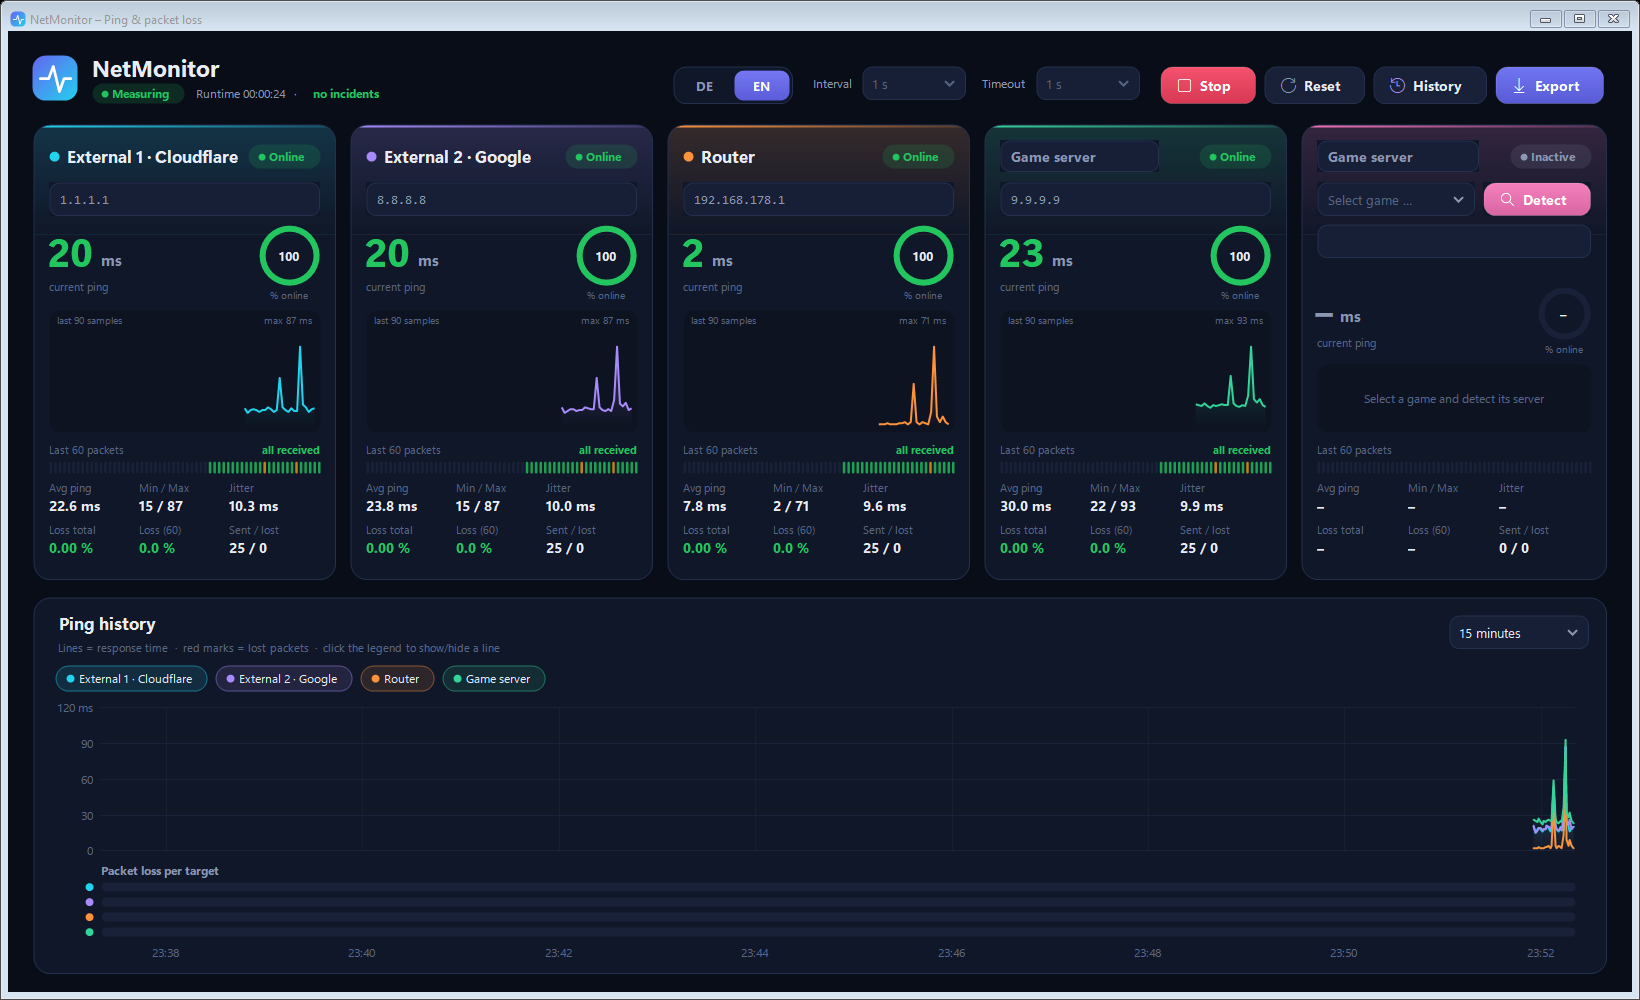
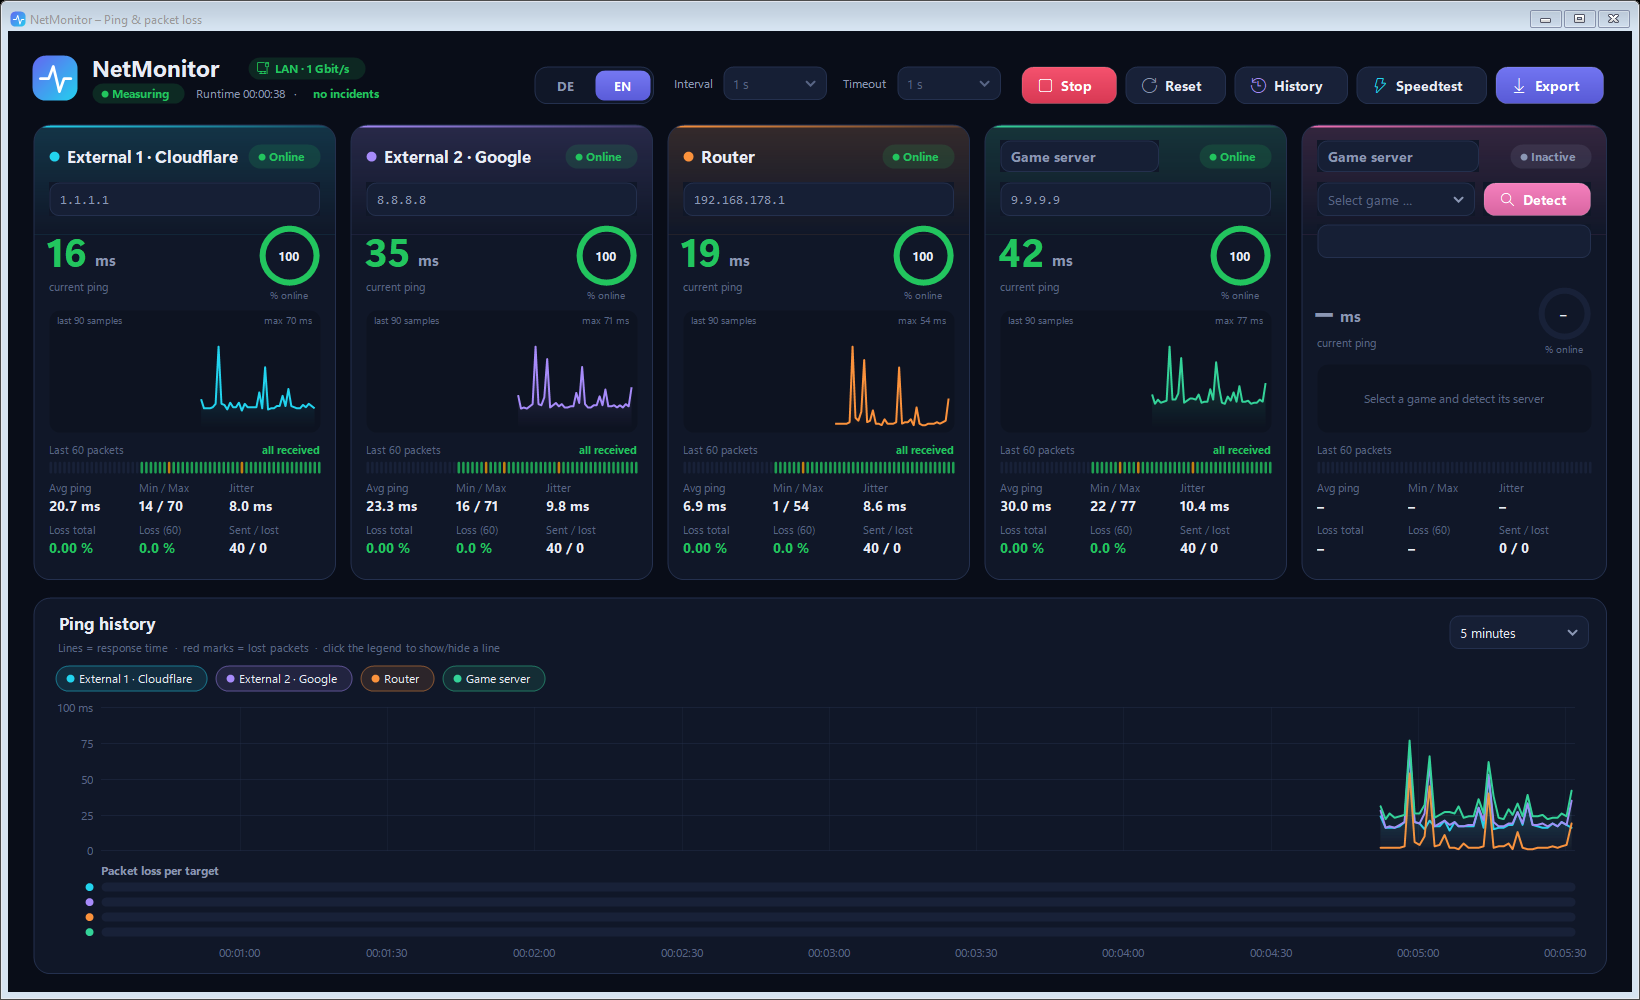
v1.3.0: Speed test, plan comparison, official tests and LAN/Wi-Fi check
- Speed test window: Cloudflare (built in), Speedtest.net via Ookla CLI
  (auto-download with SHA-256 check, server selection) and official
  regulator tests for DE/AT/CH/LU
- Contracted plan comparison; implausible results are flagged and
  Speedtest.net retries them on another server
- LAN/Wi-Fi detection with signal strength and LAN link check
- Speed tests are marked in the ping chart and excluded from the loss analysis
- Windows power throttling disabled; "&" in names displayed correctly
- README rewritten, new dashboard and speed test screenshots

diff --git a/src/SpeedTest.cs b/src/SpeedTest.cs
@@ -1056,8 +1056,8 @@ namespace NetMonitor
             Theme.StyleGrid(grid);
             grid.MultiSelect = true;
             var cols = L.En
-                ? new[] { "Date", "Provider", "Download", "Upload", "Ping", "Loaded", "% of plan", "Link" }
-                : new[] { "Datum", "Anbieter", "Download", "Upload", "Ping", "Unter Last", "% Tarif", "Verbindung" };
+                ? new[] { "Date", "Provider", "Download\nMbit/s", "Upload\nMbit/s", "Ping", "Loaded", "% of plan", "Connection" }
+                : new[] { "Datum", "Anbieter", "Download\nMbit/s", "Upload\nMbit/s", "Ping", "Unter Last", "% Tarif", "Verbindung" };
             foreach (var c in cols) grid.Columns.Add(c, c);
             grid.Columns[0].FillWeight = 120;
             grid.Columns[1].FillWeight = 110;
@@ -1625,7 +1625,7 @@ namespace NetMonitor
             {
                 var r = results[i];
                 double pct = tariffDown > 0 && !double.IsNaN(r.Down) ? 100 * r.Down / tariffDown : double.NaN;
-                int row = grid.Rows.Add(r.Time.ToString(L.DateTimeShort), r.Provider, SpeedHistory.Fmt(r.Down) + " Mbit/s", SpeedHistory.Fmt(r.Up) + " Mbit/s",
+                int row = grid.Rows.Add(r.Time.ToString(L.DateTimeShort), r.Provider, SpeedHistory.Fmt(r.Down), SpeedHistory.Fmt(r.Up),
                     SpeedHistory.FmtMs(r.Ping), SpeedHistory.FmtMs(r.LoadedPing), double.IsNaN(pct) ? "–" : pct.ToString("0") + " %", r.ConnText);
                 grid.Rows[row].Cells[7].Style.ForeColor = r.Conn == "LAN" ? Theme.Good : r.Conn == "" || r.Conn == "?" ? Theme.Faint : Theme.Warn;
                 grid.Rows[row].Tag = r;

diff --git a/README.md b/README.md
@@ -1,43 +1,72 @@
 # NetMonitor
 
-**Continuous ping & packet-loss monitor for Windows** – watch your internet connection, your router and your game server side by side, and find out *where* packet loss really happens.
+**Continuous ping, packet-loss and speed monitor for Windows** – watch your internet connection, your router and your game server side by side, find out *where* packet loss really happens and check whether you get the speed you pay for.
 
 ![Dashboard](docs/screenshots/dashboard.png)
 
-> 🇩🇪 Deutsche Kurzfassung weiter unten – die App selbst ist komplett auf Deutsch und Englisch umschaltbar.
+> 🇩🇪 Deutsche Kurzfassung [weiter unten](#-deutsch--kurzfassung) – die App selbst ist komplett auf Deutsch und Englisch umschaltbar.
+
+## Highlights
+
+- 📡 **Five targets in parallel** – Cloudflare, Google, your router, a custom target and your game server
+- 🔍 **Packet-loss analysis** – incidents on a daily timeline with their **likely cause** (home network, ISP, single service, game server)
+- 🎮 **Game server detection** – select the running game, NetMonitor finds the server it is talking to
+- ⚡ **Speed test** – Cloudflare, Speedtest.net or the official regulator test, compared with your **contracted plan**
+- 🔌 **LAN or Wi-Fi?** – connection type, Wi-Fi signal and LAN link speed at a glance
+- 🗂 **History** of every scan, CSV export, English / German, dark UI – no administrator rights needed
 
 ## Features
 
-- **Five targets at once** – two independent public resolvers (Cloudflare `1.1.1.1`, Google `8.8.8.8`), your **router** (gateway is detected automatically), a freely named **custom target** and a **game server**.
-- **Live dashboard** – current ping, availability ring, sparkline of the last 90 samples, the last 60 packets as a colour strip, avg / min / max / jitter / loss.
-- **Ping history chart** with hover tooltip, toggleable lines and a per-target **packet-loss lane**.
-- **Game server detection** – pick a running game, click *Detect* during a match: NetMonitor watches the game's network traffic for 12 s (Windows ETW, administrator rights once via UAC) and suggests the most likely game server. If the server blocks ping, the last reachable router in front of it is measured instead. Read-only, no injection – safe with anti-cheat.
-- **History** – every scan (start → stop) is saved automatically and can be reviewed, exported or deleted.
-- **Packet-loss analysis** – incidents are grouped, shown on a daily timeline and classified by their **likely cause**:
+### Monitoring
 
-  | Lost packets at … | Likely cause |
-  |---|---|
-  | router (and usually everything else) | 🟠 Home network – Wi-Fi / LAN / router |
-  | both external targets, router fine | 🔴 Internet / ISP |
-  | only one external target | 🟡 Single service |
-  | only the custom / game server | 🩷 Target server only |
+- **Targets:** two independent public resolvers (Cloudflare `1.1.1.1`, Google `8.8.8.8`), your **router** (the gateway is detected automatically), a freely named **custom target** and a **game server**.
+- **Live dashboard:** current ping, availability ring, sparkline of the last 90 samples, the last 60 packets as a colour strip, avg / min / max / jitter / loss per target.
+- **Ping chart** with hover tooltip, toggleable lines and a **packet-loss lane** per target. Speed test periods are hatched in the chart.
+- **Connection badge** in the header: *LAN · 1 Gbit/s* or *Wi-Fi · 87 %* (signal strength).
 
-  Incidents less than 10 minutes apart can be grouped into a *series*.
-- **Speed test (manual)** – choose the provider:
-  - **Cloudflare** (built in) – 6 parallel connections, download/upload, idle and *loaded* latency (bufferbloat), jitter
-  - **Speedtest.net** – via the official [Ookla Speedtest CLI](https://www.speedtest.net/apps/cli), with server selection. The installer (or one click in the app) downloads it from Ookla, verifies its SHA-256 checksum and stores it in `%APPDATA%\NetMonitor\tools\ookla` – by downloading you accept Ookla's terms.
-  - **Official test** – the regulator's own measurement where one exists: Germany (Bundesnetzagentur – Breitbandmessung, legally binding), Austria (RTR-Netztest), Switzerland (networktest.ch), Luxembourg (checkmynet.lu). Preselected from your Windows region; results can be entered for comparison. For other countries Cloudflare or Speedtest.net are fully sufficient.
+### Game server detection
 
-  NetMonitor shows whether you are connected via **LAN or Wi-Fi** (with signal strength) in the header and in the speed test window, warns that official measurements should be taken via LAN cable, and checks whether the LAN link speed (e.g. 100 Mbit/s port) limits your plan. Each result stores the connection type.
+Select a running game and click **Detect** during a match. NetMonitor watches the game's network traffic for 12 s (Windows ETW, administrator rights once via UAC) and suggests the most likely game server – steady UDP traffic in both directions. If the server blocks ping, the last reachable router in front of it is measured instead. Read-only, no injection – safe with anti-cheat software.
 
-  Implausible results (latency did not rise under load and the speed is far below your plan / previous results) are flagged ⚠ and excluded from the plan evaluation; Speedtest.net automatically repeats such a test against another nearby server.
+### History & packet-loss analysis
 
-  Enter your **contracted plan** to see how much of it you actually get (gauges, history chart with plan lines, % of plan). Packet loss during a speed test is marked in the ping chart and not counted as an incident.
-- **CSV export** (+ PNG of the chart) for sessions, incident lists and speed tests.
-- **English / German** – switch live in the header, including number and date formats.
-- **Dark UI**, hand-drawn controls, high-DPI aware.
+Every scan (start → stop) is saved automatically as a session and can be reviewed with details and chart, exported or deleted.
+
+The **Packet loss** tab groups lost packets into incidents, shows them on a **daily timeline** and estimates the **likely cause**:
+
+| Lost packets at … | Likely cause |
+|---|---|
+| router (and usually everything else) | 🟠 Home network – Wi-Fi / LAN / router |
+| both external targets, router fine | 🔴 Internet / ISP |
+| only one external target | 🟡 Single service |
+| only the custom / game server | 🩷 Target server only |
+
+Incidents less than 10 minutes apart can be grouped into a *series*. Packet loss during a speed test is not counted as an incident.
 
 ![Packet loss analysis](docs/screenshots/packet-loss.png)
+
+### Speed test
+
+Manual speed test with three providers:
+
+| Provider | How it works |
+|---|---|
+| **Cloudflare** | built in – 6 parallel connections, download / upload, ping, jitter and **latency under load** (bufferbloat) |
+| **Speedtest.net** | via the official [Ookla Speedtest CLI](https://www.speedtest.net/apps/cli), with server selection. The installer – or one click in the app – downloads it directly from Ookla, verifies its SHA-256 checksum and stores it in `%APPDATA%\NetMonitor\tools\ookla`. |
+| **Official test** | the regulator's own measurement where one exists: 🇩🇪 Germany (Bundesnetzagentur – *Breitbandmessung*, legally binding), 🇦🇹 Austria (RTR-Netztest), 🇨🇭 Switzerland (networktest.ch), 🇱🇺 Luxembourg (checkmynet.lu). NetMonitor opens it; the result can be entered for comparison. For other countries Cloudflare or Speedtest.net are fully sufficient. |
+
+- **Contracted plan:** enter the speeds from your contract – gauges show a plan marker and *% of plan*, the history chart shows plan lines, and NetMonitor points out when results are repeatedly below 90 %.
+- **Plausibility check:** if latency did not rise under load and the result is far below your plan or previous results, the connection was obviously not saturated. Such results are flagged ⚠ and excluded from the plan evaluation; Speedtest.net automatically repeats them against another nearby server.
+- **Connection check:** a banner shows whether you are on LAN or Wi-Fi (with network name and signal), recommends a LAN cable for meaningful and official measurements, and warns if your LAN port is slower than your plan (e.g. a 100 Mbit/s link). Every result stores the connection type.
+
+![Speed test](docs/screenshots/speedtest.png)
+
+### More
+
+- **CSV export** (plus a PNG of the chart) for live data, sessions, incident lists and speed tests
+- **English / German** – switch live in the header, including number and date formats
+- Dark, hand-drawn UI, high-DPI aware
+
 ![Session history](docs/screenshots/sessions.png)
 
 ## Installation
@@ -45,18 +74,26 @@
 1. Download `NetMonitor-<version>.zip` from the [Releases](../../releases) page.
 2. *Recommended:* right-click the ZIP → **Properties** → tick **Unblock** → OK.
 3. Extract it and double-click **`Setup.cmd`**.
-4. Choose language, folder and shortcuts → **Install**.
+4. Choose language, folder and options → **Install**.
 
-The installer works **per user without administrator rights**: files go to `%LOCALAPPDATA%\Programs\NetMonitor`, shortcuts to the Start menu / desktop, and NetMonitor appears in **Settings → Apps → Installed apps**, where it can be uninstalled again. Running `Setup.cmd` from a newer release updates an existing installation; history and settings are kept.
+The installer works **per user without administrator rights**:
 
-> **Why is there no `.exe`?** NetMonitor ships as source code that the built-in Windows PowerShell compiles at start-up (takes ~2 s). This way it also runs on PCs with **Smart App Control**, which blocks unsigned executables. Windows may still show *“Windows protected your PC”* for `Setup.cmd` from the internet – click **More info → Run anyway**, or unblock the ZIP first (step 2).
+- files go to `%LOCALAPPDATA%\Programs\NetMonitor`
+- optional Start menu entry and desktop shortcut
+- optional download of the **Ookla Speedtest CLI** for Speedtest.net (by downloading you accept [Ookla's terms](https://www.speedtest.net/about/terms))
+- NetMonitor appears in **Settings → Apps → Installed apps** and can be uninstalled there (optionally including history and settings)
 
-**Portable mode:** instead of installing, simply double-click `NetMonitor.cmd` in the extracted folder.
+**Updating:** run `Setup.cmd` from a newer release – the existing installation is detected and updated; history and settings are kept.
+
+**Portable mode:** instead of installing, double-click `NetMonitor.cmd` in the extracted folder.
+
+> **Why is there no `.exe`?** NetMonitor ships as source code that the built-in Windows PowerShell compiles at start-up (takes about 2 s). This way it also runs on PCs with **Smart App Control**, which blocks unsigned executables. Windows may still show *“Windows protected your PC”* for `Setup.cmd` from the internet – click **More info → Run anyway**, or unblock the ZIP first (step 2).
 
 ### Requirements
 
 - Windows 10 or 11 (64-bit)
 - Windows PowerShell 5.1 and .NET Framework 4.x – both are part of Windows
+- Administrator rights only for the optional game server detection (one UAC prompt per detection)
 
 ## Usage
 
@@ -64,14 +101,31 @@ The installer works **per user without administrator rights**: files go to `%LOC
 |---|---|
 | **Start / Stop** | starts a scan; each scan becomes a session in the history |
 | **Interval / Timeout** | ping interval (0.5–5 s) and timeout per ping |
-| **Custom target** | enter any name and IP / host name, e.g. a game server you know |
+| **DE / EN** | switches the language live |
+| **Custom target** | enter any name and IP / host name, e.g. a server you know |
 | **Game server** | select the running game → **Detect** while in a match → confirm the suggested server |
 | **History** | sessions with details and chart; tab **Packet loss** for the incident analysis |
+| **Speedtest** | choose the provider, enter your plan once, click **Start test** |
 | **Delete history …** | delete the selected session, everything older than 7 / 30 days, or all |
 
-Data is stored in `%APPDATA%\NetMonitor` (`Verlauf\*.summary` + `*.samples`, `settings.txt`). Set the environment variable `NETMONITOR_HOME` to use a different folder (e.g. for a portable setup).
+### Tips
 
-> Many game servers do not answer ping (ICMP blocked). NetMonitor then measures the last router in front of the server, which reflects your connection to the data centre. Routers deprioritise ping replies, so occasional single losses on that target are less meaningful than losses on the external targets.
+- **Measure via LAN cable** for meaningful speed tests – Wi-Fi often limits the result. Official measurements (e.g. the German *Breitbandmessung*) require a LAN connection.
+- A full speed test saturates your connection for about 20 s and transfers several hundred MB at high speeds.
+- Many game servers do not answer ping (ICMP blocked). NetMonitor then measures the last router in front of the server. Routers deprioritise ping replies, so occasional single losses on that target are less meaningful than losses on the external targets.
+
+## Data & privacy
+
+All data stays on your PC in `%APPDATA%\NetMonitor`:
+
+| | |
+|---|---|
+| `Verlauf\*.summary`, `*.samples` | sessions and individual ping results |
+| `speedtests.csv` | speed test results |
+| `settings.txt` | targets, language, plan and other settings |
+| `tools\ookla\` | Ookla Speedtest CLI (if downloaded) |
+
+NetMonitor only contacts the targets you ping and – when you run a speed test – the chosen provider (Cloudflare or Ookla). Set the environment variable `NETMONITOR_HOME` to store data in a different folder (e.g. for a portable setup).
 
 ## Building a release
 
@@ -85,21 +139,24 @@ Compiles all sources as a check and creates `dist\NetMonitor-<version>.zip`. The
 
 ```
 NetMonitor.ps1        launcher – compiles src\*.cs and starts the app / setup / uninstaller
-NetMonitor.cmd        start without installing
+NetMonitor.cmd        start without installing (portable)
 Setup.cmd             installer
-src\Core.cs           data, storage, loss analysis, game server detection (ETW)
+src\Core.cs           data, storage, loss analysis, connection detection, game server detection (ETW)
 src\Controls.cs       theme and custom-drawn controls (charts, timeline, buttons …)
 src\MainForm.cs       dashboard
 src\HistoryForm.cs    history, packet-loss analysis, dialogs
+src\SpeedTest.cs      speed test (Cloudflare, Ookla CLI, official tests) and plan comparison
 src\Setup.cs          installer / uninstaller
-src\SpeedTest.cs      speed test (Cloudflare, Ookla CLI, official tests per country) and plan comparison
 src\Strings.cs        German / English
 build\                release script
+docs\screenshots\     screenshots for this README
 ```
 
 ## License
 
-[MIT](LICENSE)
+NetMonitor is licensed under the [MIT License](LICENSE).
+
+The Ookla Speedtest CLI is proprietary software by Ookla. It is **not** part of this repository – it is downloaded from Ookla only if you choose to and is subject to [Ookla's terms](https://www.speedtest.net/about/terms) and [privacy policy](https://www.speedtest.net/about/privacy).
 
 ---
 
@@ -107,8 +164,15 @@ build\                release script
 
 **NetMonitor** misst dauerhaft Ping und Paketverluste zu zwei Internet-Diensten (Cloudflare, Google), deinem **Router**, einem frei benennbaren Ziel und deinem **Spielserver** – und zeigt dir, *wo* Paketverluste entstehen: im Heimnetz, beim Provider, bei einem einzelnen Dienst oder nur beim Spielserver.
 
-**Installation:** ZIP von der Releases-Seite laden → (empfohlen) Rechtsklick → Eigenschaften → „Zulassen“ → entpacken → **`Setup.cmd`** doppelklicken. Installiert wird ohne Adminrechte für dein Benutzerkonto, inklusive Startmenü-Eintrag und Deinstallation über *Einstellungen → Apps*. Erscheint „Der Computer wurde durch Windows geschützt“: **Weitere Informationen → Trotzdem ausführen**.
+**Funktionen**
+- Live-Dashboard mit Sparklines, Paketleiste und Verfügbarkeitsring
+- Verlauf aller Messungen mit Paketverlust-Analyse: Tagesübersicht, Ursachen-Einschätzung, Serien-Zusammenfassung
+- Automatische Spielserver-Erkennung (einmalig Adminrechte, Anti-Cheat-unbedenklich)
+- Speedtest per **Cloudflare**, **Speedtest.net** (Ookla CLI, wird auf Wunsch automatisch geladen) oder **offizieller Messung** (Breitbandmessung der Bundesnetzagentur, RTR-Netztest, networktest.ch, checkmynet.lu)
+- Vergleich mit deinem **gebuchten Tarif**, unplausible Messungen werden erkannt und markiert
+- Anzeige **LAN oder WLAN** inkl. Signalstärke – offizielle Messungen bitte per LAN-Kabel
+- CSV-Export, Umschaltung Deutsch/Englisch
 
-**Highlights:** Live-Dashboard mit Sparklines und Paketleiste · Verlauf aller Messungen · Paketverlust-Analyse mit Tagesübersicht, Ursachen-Einschätzung und Serien-Zusammenfassung · automatische Spielserver-Erkennung · manueller Speedtest (Cloudflare, Speedtest.net, Breitbandmessung) mit Vergleich zum gebuchten Tarif · CSV-Export · Umschaltung Deutsch/Englisch im Kopfbereich.
+**Installation:** ZIP von der Releases-Seite laden → (empfohlen) Rechtsklick → Eigenschaften → „Zulassen“ → entpacken → **`Setup.cmd`** doppelklicken. Installiert wird ohne Adminrechte für dein Benutzerkonto, inklusive Startmenü-Eintrag, optionalem Download der Ookla CLI und Deinstallation über *Einstellungen → Apps*. Erscheint „Der Computer wurde durch Windows geschützt“: **Weitere Informationen → Trotzdem ausführen**. Ein Update funktioniert genauso – Verlauf und Einstellungen bleiben erhalten.
 
 Die Messdaten liegen unter `%APPDATA%\NetMonitor`.
